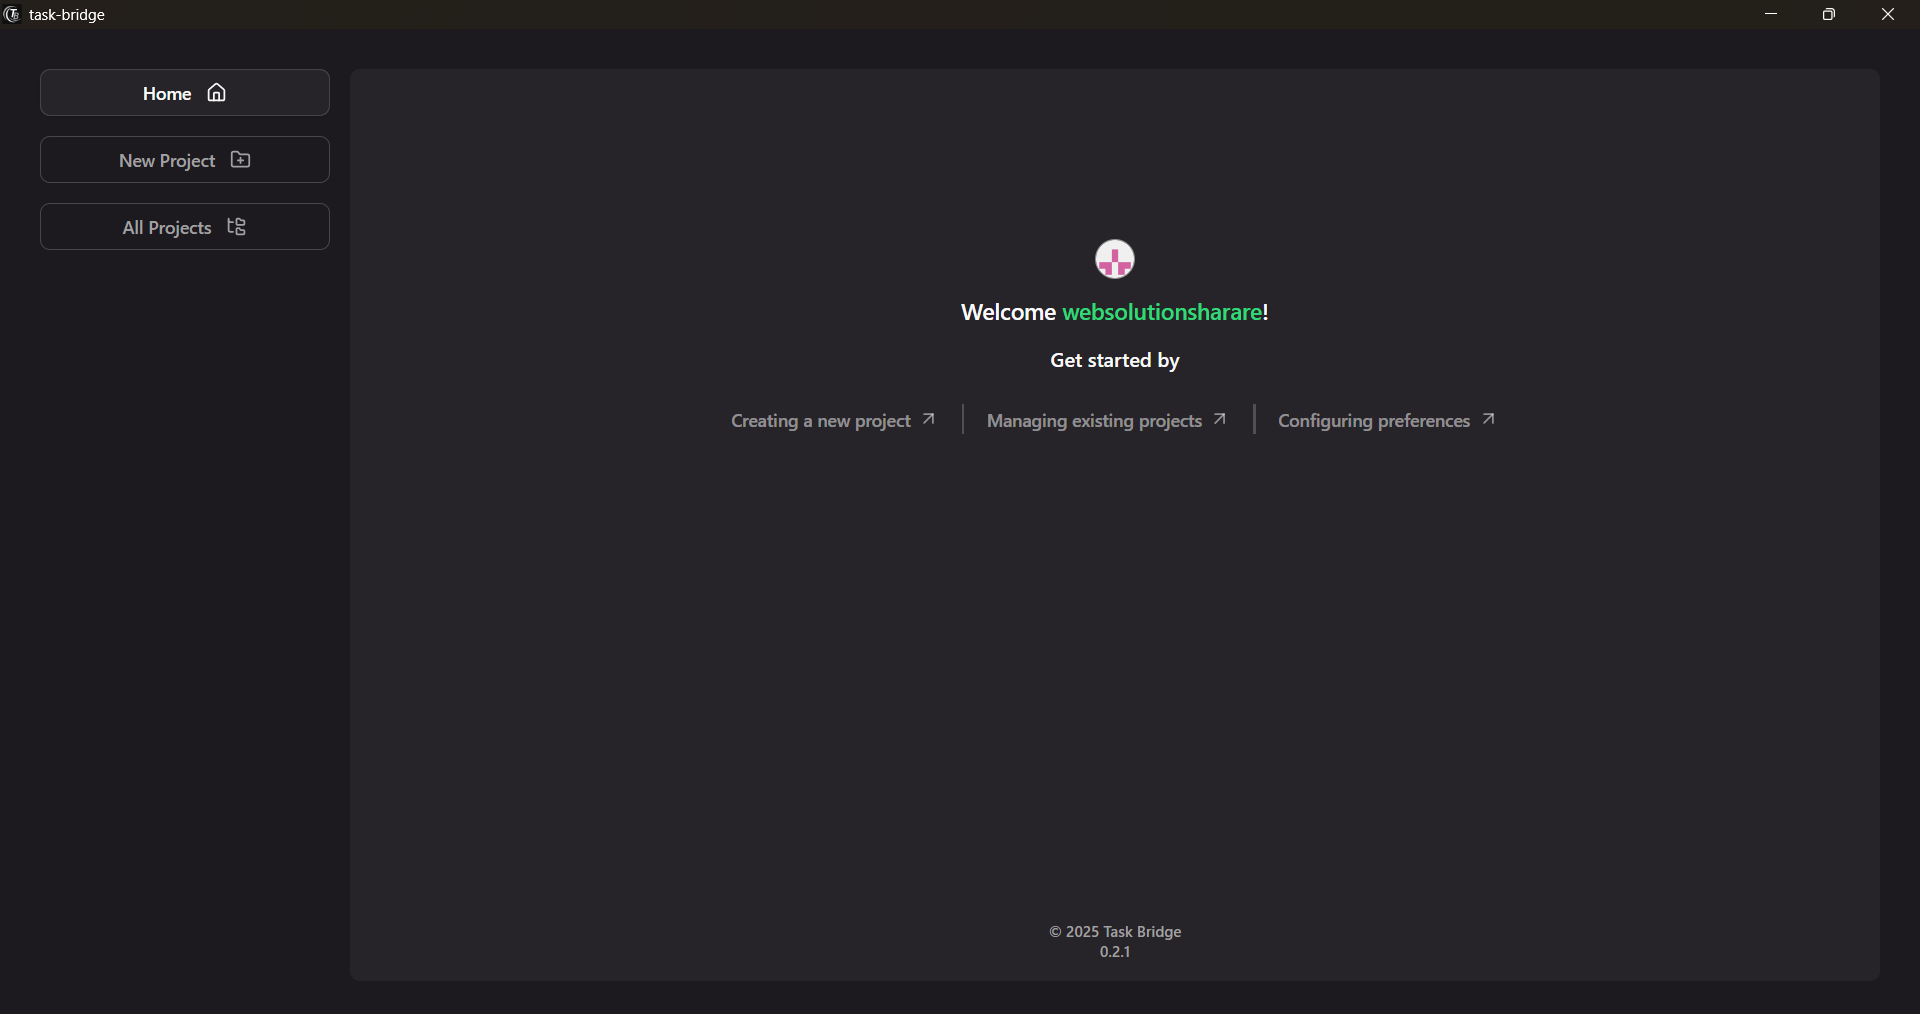
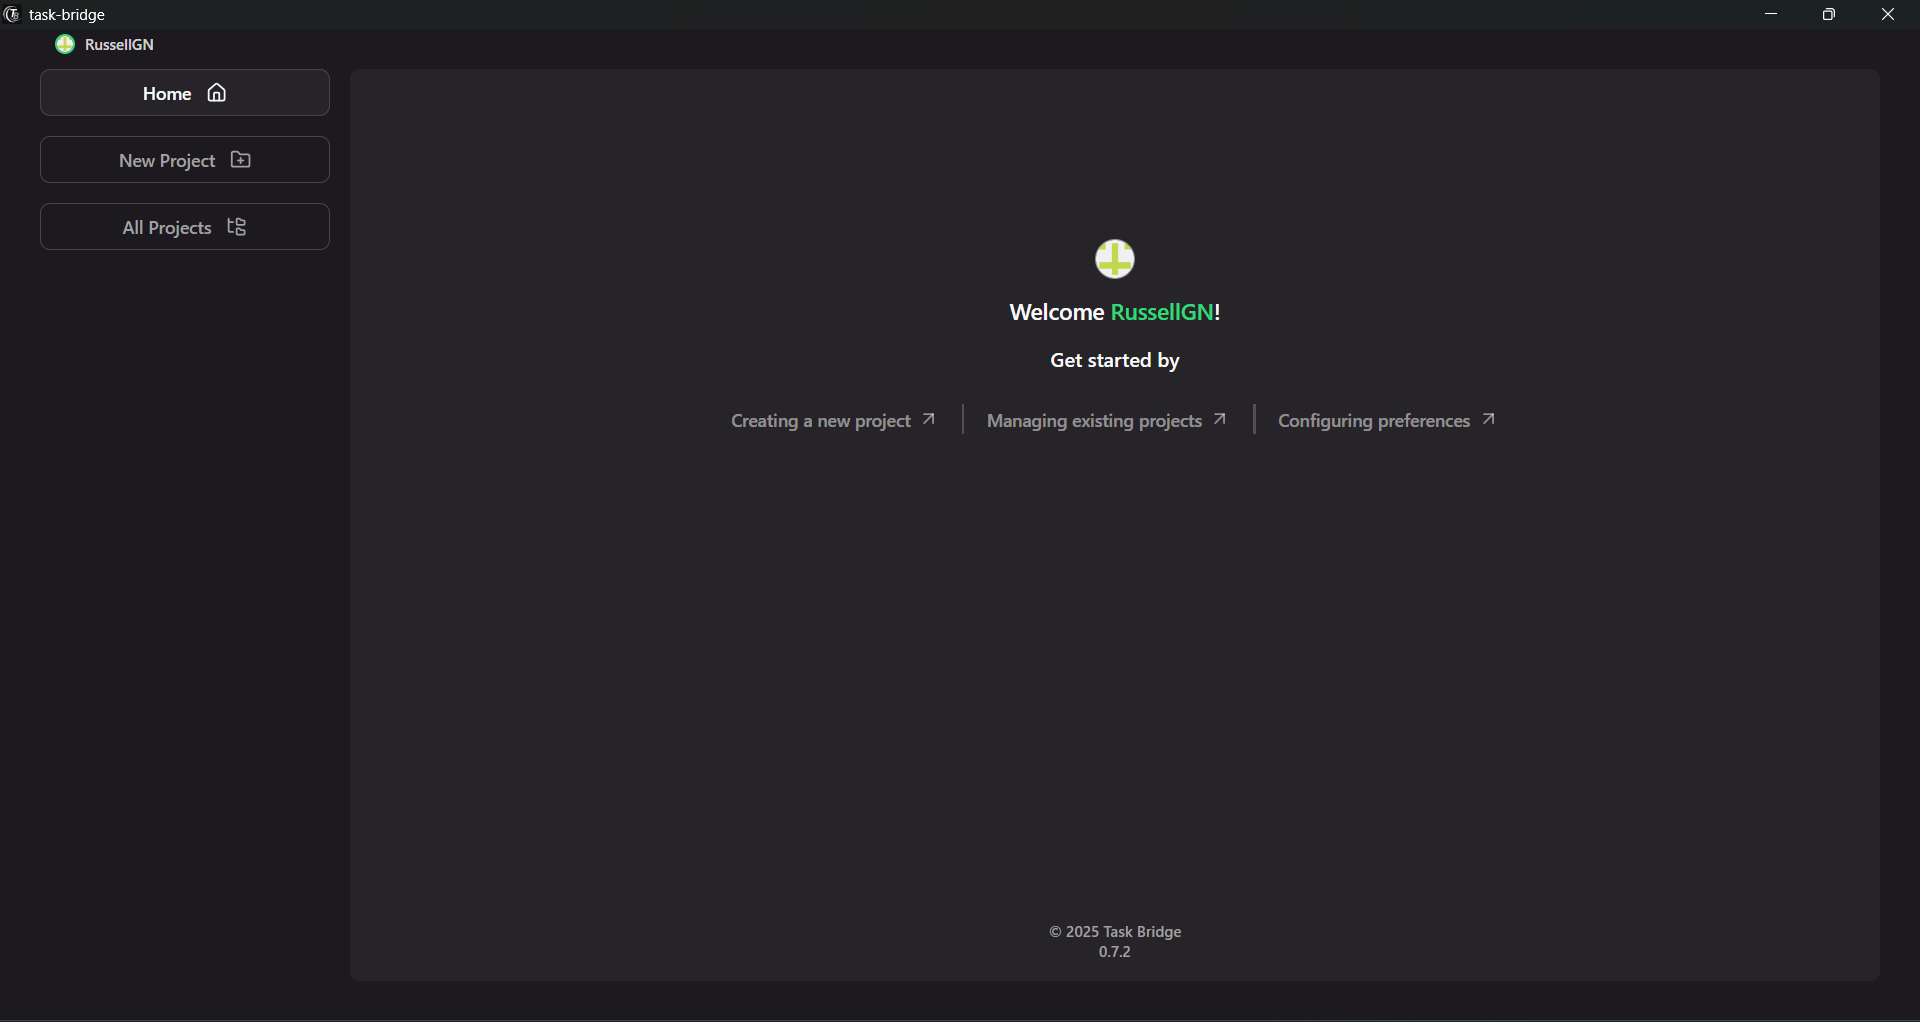
doc: update screenshots

diff --git a/README.md b/README.md
@@ -5,7 +5,7 @@
 ## Screenshots
 
 <details>
-<summary><strong>Screenshots @ V0.6.1-alpha</strong></summary>
+<summary><strong>Screenshots @ V0.7.2-alpha</strong></summary>
 
 <br/>
 
